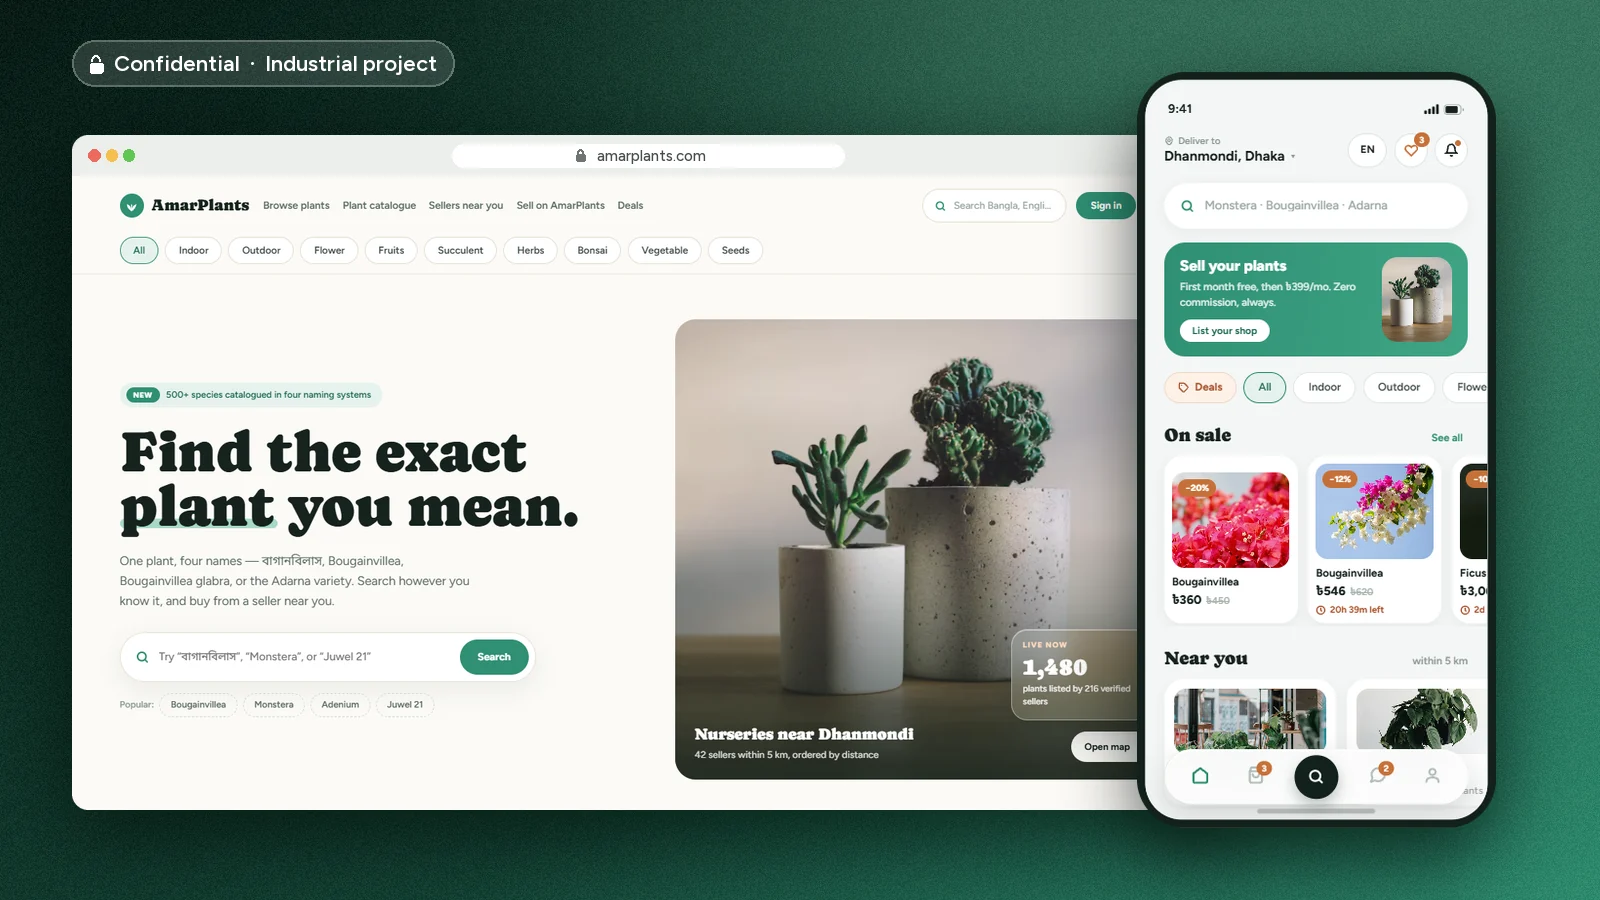
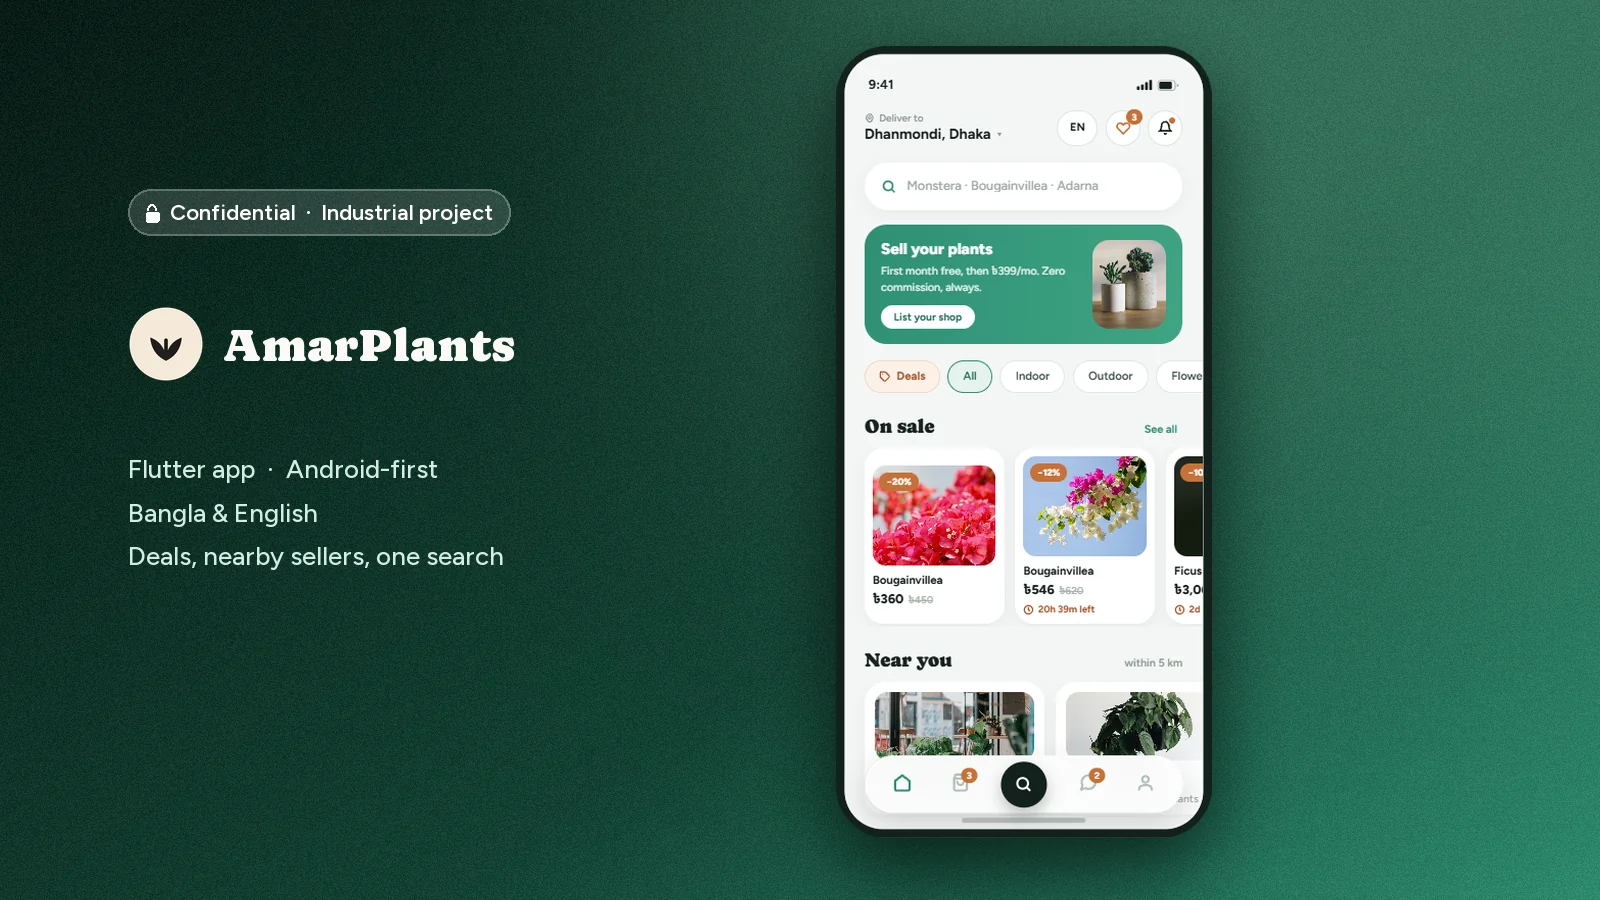
Describe AmarPlants as the Flutter app I built

diff --git a/README.md b/README.md
@@ -108,15 +108,15 @@ I build **cross-platform mobile applications** and the **intelligence that runs 
 
 ## Featured Projects
 
-### 🌿 AmarPlants — Multi-Vendor Plant Marketplace for Bangladesh
+### 🌿 AmarPlants — Flutter App for a Plant Marketplace in Bangladesh
 
-`Flutter` `Riverpod` `Next.js` `Laravel` `PostgreSQL/PostGIS`
+`Flutter` `Dart` `Riverpod` `go_router` `drift`
 
-> 🔒 **Confidential industry project.** The source code is in a private repository and is not shared. The images below show the public-facing interface only.
+> 🔒 **Confidential industry project.** The source code is in a private repository and is not shared. The image below shows the app's public-facing interface only.
 
-One plant goes by many names: বাগানবিলাস, Bougainvillea, *Bougainvillea glabra*, or a nursery's variety name like Adarna. AmarPlants lets buyers search however they know the plant and buy it from a verified seller nearby. Sellers pay a flat monthly subscription and **no commission**.
+One plant goes by many names: বাগানবিলাস, Bougainvillea, *Bougainvillea glabra*, or a nursery's variety name like Adarna. I built the **Flutter buyer app** for AmarPlants, a multi-vendor plant marketplace: buyers search however they know the plant and buy it from a verified seller nearby.
 
-<img src="assets/amarplants-showcase.webp" alt="AmarPlants website and buyer app" />
+<img src="assets/amarplants-showcase.webp" alt="AmarPlants Flutter buyer app" />
 
 **What it does**
 
@@ -127,7 +127,7 @@ One plant goes by many names: বাগানবিলাস, Bougainvillea, *Bo
 | Deals | Time-limited discounts with a live countdown on each listing |
 | Bilingual | Every screen in Bangla and English, Bangla-first |
 
-**Stack**: Flutter buyer app (Riverpod, go_router, drift), Next.js website with server-rendered catalogue pages, and one Laravel API on PostgreSQL + PostGIS behind all of them.
+**Stack**: Flutter with Riverpod (code generation), go_router and freezed · drift for the cart, wishlist and recent searches on the device · Android-first.
 
 *Status: in active development. Source code private.*
 
